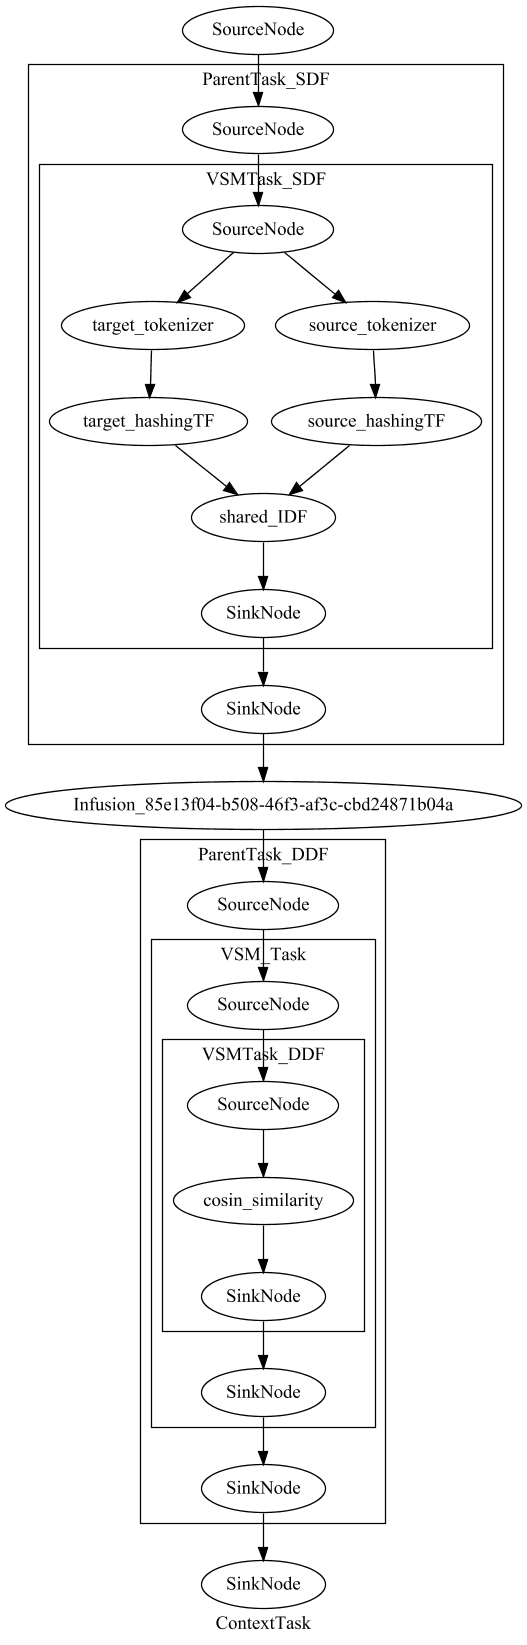
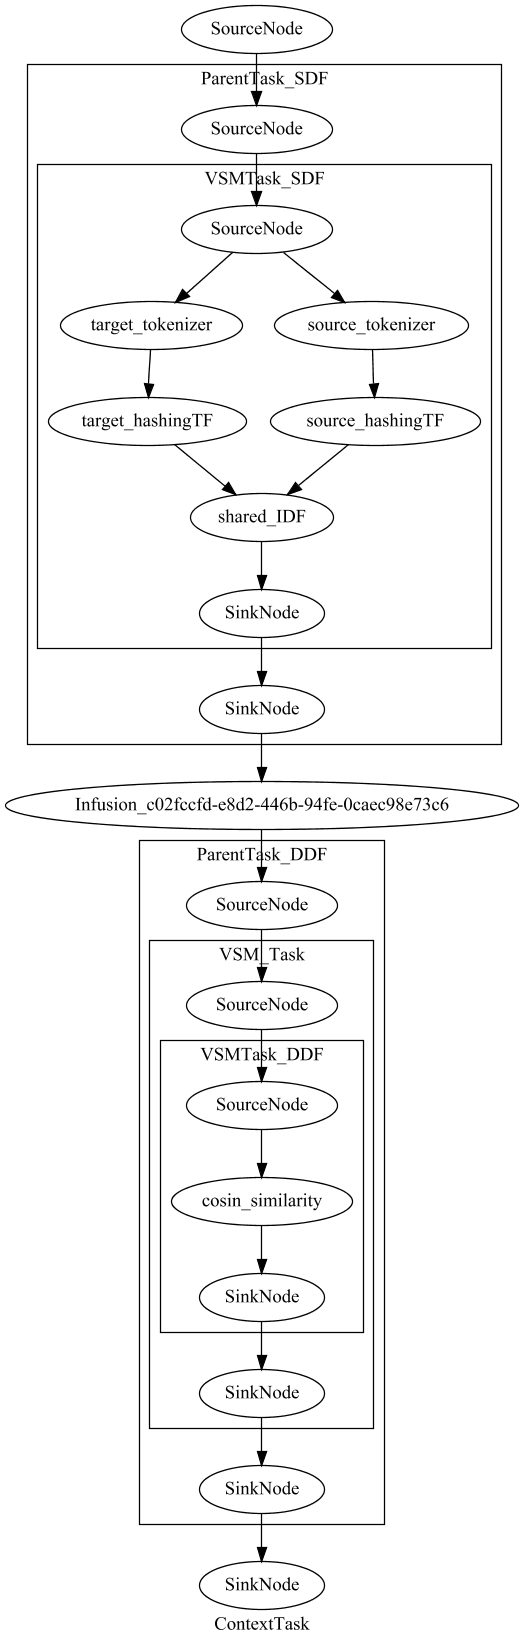
refactory the SDFtype for SDFGraph and removed special node SDFNode

diff --git a/src/main/java/examples/VSMTask.java b/src/main/java/examples/VSMTask.java
@@ -2,7 +2,6 @@ package examples;
 
 import core.SparkTraceTask;
 import core.graphPipeline.SDF.SDFGraph;
-import core.graphPipeline.SDF.SDFNode;
 import core.graphPipeline.basic.SGraph;
 import core.graphPipeline.basic.SNode;
 import featurePipelineStages.VecSimilarity.SparseVecSimilarity.SparseVecCosinSimilarityStage;
@@ -32,29 +31,24 @@ public class VSMTask {
 
     private static void createSourceSDF(SDFGraph sdfGraph) throws Exception {
         sdfGraph.addInputField("s_text").addInputField("s_id");
-        sdfGraph.addOutputField("s_tf_idf");
-        SDFNode.SDFType type = SDFNode.SDFType.SOURCE_SDF;
-
+        sdfGraph.addOutputField("s_tf_idf", SDFGraph.SDFType.SOURCE_SDF);
 
         Tokenizer sTk = new Tokenizer();
-        SDFNode tkNode = new SDFNode(new NullRemoverModelSingleIO(sTk), "source_tokenizer");
+        SNode tkNode = new SNode(new NullRemoverModelSingleIO(sTk), "source_tokenizer");
         tkNode.addInputField("s_text");
         tkNode.addOutputField("s_tokens");
-        tkNode.assignTypeToOutputField("s_tokens", type);
 
         HashingTF htf = new HashingTF();
-        SDFNode htfNode = new SDFNode(new NullRemoverModelSingleIO(htf), "source_hashingTF");
+        SNode htfNode = new SNode(new NullRemoverModelSingleIO(htf), "source_hashingTF");
         htfNode.addInputField("s_tokens");
         htfNode.addOutputField("s_htf");
-        htfNode.assignTypeToOutputField("s_htf", type);
 
 
         IDF idf = new IDF();
         UnsupervisedStage un_idf = new UnsupervisedStage(idf);
-        SDFNode idfNode = new SDFNode(un_idf, "shared_IDF");
+        SNode idfNode = new SNode(un_idf, "shared_IDF");
         idfNode.addInputField("s_idf_in");
         idfNode.addOutputField("s_idf_out");
-        idfNode.assignTypeToOutputField("s_idf_out", type);
 
         sdfGraph.addNode(tkNode);
         sdfGraph.addNode(htfNode);
@@ -69,25 +63,22 @@ public class VSMTask {
     private static void createTargetSDF(SDFGraph sdfGraph) throws Exception {
         sdfGraph.addInputField("t_id");
         sdfGraph.addInputField("t_text");
-        sdfGraph.addOutputField("t_tf_idf");
-        SDFNode.SDFType type = SDFNode.SDFType.TARGET_SDF;
+        sdfGraph.addOutputField("t_tf_idf", SDFGraph.SDFType.TARGET_SDF);
+
         Tokenizer sTk = new Tokenizer();
-        SDFNode tkNode = new SDFNode(new NullRemoverModelSingleIO(sTk), "target_tokenizer");
+        SNode tkNode = new SNode(new NullRemoverModelSingleIO(sTk), "target_tokenizer");
         tkNode.addInputField("t_text");
         tkNode.addOutputField("t_tokens");
-        tkNode.assignTypeToOutputField("t_tokens", type);
 
         HashingTF htf = new HashingTF();
-        SDFNode htfNode = new SDFNode(new NullRemoverModelSingleIO(htf), "target_hashingTF");
+        SNode htfNode = new SNode(new NullRemoverModelSingleIO(htf), "target_hashingTF");
         htfNode.addInputField("t_tokens");
         htfNode.addOutputField("t_htf");
-        htfNode.assignTypeToOutputField("t_htf", type);
 
 
-        SDFNode idfNode = (SDFNode) sdfGraph.getNode("shared_IDF");
+        SNode idfNode = (SNode) sdfGraph.getNode("shared_IDF");
         idfNode.addInputField("t_idf_in");
         idfNode.addOutputField("t_idf_out");
-        idfNode.assignTypeToOutputField("t_idf_out", type);
 
         sdfGraph.addNode(tkNode);
         sdfGraph.addNode(htfNode);

diff --git a/src/main/java/core/graphPipeline/SDF/SDFGraph.java b/src/main/java/core/graphPipeline/SDF/SDFGraph.java
@@ -1,5 +1,6 @@
 package core.graphPipeline.SDF;
 
+import core.graphPipeline.basic.IOTableCell;
 import core.graphPipeline.basic.Vertex;
 import core.graphPipeline.graphSymbol.Symbol;
 import core.graphPipeline.graphSymbol.SymbolTable;
@@ -7,64 +8,28 @@ import core.graphPipeline.basic.SGraph;
 
 import java.util.*;
 
-//TODO SDFGraph and SDFNode is reduludent. It can be simlified to use just SGraph. Internal nodes have no need to keep
-//TODO outputType, only the graph or TraceTask need to keep this information.
+
 public class SDFGraph extends SGraph implements SDFInterface {
-    //SDFGraph outputFields are generated by sourceSDF and targetSDF logically
-    private Map<String, SDFNode.SDFType> outputTypeMap;
+    public enum SDFType {
+        SOURCE_SDF,
+        TARGET_SDF,
+    }
+
+    private Map<String, SDFType> outputTypeMap;
 
     public SDFGraph() {
         super();
         outputTypeMap = new HashMap<>();
     }
 
-
     @Override
     public void removeOutputField(Symbol symbol) {
         super.removeOutputField(symbol);
         outputTypeMap.remove(symbol.getSymbolName());
-
-    }
-
-
-    @Override
-    public void addNode(Vertex vertex) {
-        assert vertex instanceof SDFNode || vertex instanceof SDFGraph;
-        super.addNode(vertex);
     }
 
     @Override
-    public void removeNode(Vertex vertex) throws Exception {
-        assert vertex instanceof SDFNode || vertex instanceof SDFGraph;
-        super.removeNode(vertex);
-    }
-
-    @Override
-    public void connect(Vertex v1, String symbolName1, Vertex v2, String symbolName2) throws Exception {
-        super.connect(v1, symbolName1, v2, symbolName2);
-        if (v2.equals(this.sinkNode)) {
-            if (v1 instanceof SDFInterface) {
-                SDFInterface sdfV1 = (SDFInterface) v1;
-                SDFNode.SDFType sourceSDFType = sdfV1.getOutputSymbolType(symbolName1);
-                outputTypeMap.put(symbolName2, sourceSDFType);
-            }
-        }
-    }
-
-    @Override
-    public void disconnect(Vertex v1, String symbolName1, Vertex v2, String symbolName2) throws Exception {
-        super.disconnect(v1, symbolName1, v2, symbolName2);
-        if (v2.equals(this.sinkNode)) {
-            if (v1 instanceof SDFInterface) {
-                if (outputTypeMap.containsKey(symbolName2)) {
-                    outputTypeMap.remove(symbolName2);
-                }
-            }
-        }
-    }
-
-    @Override
-    public Map<String, SDFNode.SDFType> getOutputTypeMap() {
+    public Map<String, SDFType> getOutputTypeMap() {
         return outputTypeMap;
     }
 
@@ -87,5 +52,17 @@ public class SDFGraph extends SGraph implements SDFInterface {
     public Set<String> getSourceSDFOutput() {
         Set<String> symbolNames = splitSDFOutputs().getKey();
         return getSymbolValuesByName(symbolNames);
+    }
+
+    public Vertex addOutputField(Symbol symbol, SDFType type) throws Exception {
+        super.addOutputField(symbol);
+        assignTypeToOutputField(symbol.getSymbolName(), type);
+        return this;
+    }
+
+    public Vertex addOutputField(String symbolName, SDFType type) throws Exception {
+        Symbol symbol = new Symbol(this, symbolName);
+        addOutputField(symbol, type);
+        return this;
     }
 }

diff --git a/src/test/java/SparkJobTest.java b/src/test/java/SparkJobTest.java
@@ -1,7 +1,7 @@
 import core.SparkTraceTask;
 import core.graphPipeline.SDF.SDFGraph;
-import core.graphPipeline.SDF.SDFNode;
 import core.graphPipeline.basic.SGraph;
+import core.graphPipeline.basic.SNode;
 import examples.TestBase;
 import examples.VSMTask;
 import featurePipelineStages.NullRemoveWrapper.NullRemoverModelSingleIO;
@@ -81,8 +81,8 @@ public class SparkJobTest extends TestBase {
         sdfGraph.setId("nestedTask_SDF");
         sdfGraph.addInputField("s_t");
         sdfGraph.addInputField("t_t");
-        sdfGraph.addOutputField("s_tk");
-        sdfGraph.addOutputField("t_tk");
+        sdfGraph.addOutputField("s_tk", SDFGraph.SDFType.SOURCE_SDF);
+        sdfGraph.addOutputField("t_tk", SDFGraph.SDFType.TARGET_SDF);
 
         Map<String, String> nestTaskConfig = new HashMap<>();
         nestTaskConfig.put("s_t", "commit_content");
@@ -91,16 +91,14 @@ public class SparkJobTest extends TestBase {
         nestTaskConfig.put("t_id", "issue_id");
 
         Tokenizer sTk = new Tokenizer();
-        SDFNode stkNode = new SDFNode(new NullRemoverModelSingleIO(sTk), "source_tokenizer");
+        SNode stkNode = new SNode(new NullRemoverModelSingleIO(sTk), "source_tokenizer");
         stkNode.addInputField("s_text");
         stkNode.addOutputField("s_tokens");
-        stkNode.assignTypeToOutputField("s_tokens", SDFNode.SDFType.SOURCE_SDF);
 
         Tokenizer tTk = new Tokenizer();
-        SDFNode ttkNode = new SDFNode(new NullRemoverModelSingleIO(tTk), "target_tokenizer");
+        SNode ttkNode = new SNode(new NullRemoverModelSingleIO(tTk), "target_tokenizer");
         ttkNode.addInputField("t_text");
         ttkNode.addOutputField("t_tokens");
-        ttkNode.assignTypeToOutputField("t_tokens", SDFNode.SDFType.TARGET_SDF);
 
         sdfGraph.addNode(stkNode);
         sdfGraph.addNode(ttkNode);
@@ -142,9 +140,11 @@ public class SparkJobTest extends TestBase {
         SDFGraph sdf = new SDFGraph();
         sdf.setId("ParentTask_SDF");
         sdf.addInputField("s_id").addInputField("t_id").addInputField("s_text").addInputField("t_text");
-        sdf.addOutputField("s_text_out").addOutputField("t_text_out").addOutputField("s_id_out").addOutputField("t_id_out");
-        sdf.assignTypeToOutputField("s_text_out", SDFNode.SDFType.SOURCE_SDF);
-        sdf.assignTypeToOutputField("t_text_out", SDFNode.SDFType.TARGET_SDF);
+        sdf.addOutputField("s_text_out", SDFGraph.SDFType.SOURCE_SDF);
+        sdf.addOutputField("t_text_out", SDFGraph.SDFType.TARGET_SDF);
+        sdf.addOutputField("s_id_out", SDFGraph.SDFType.SOURCE_SDF);
+        sdf.addOutputField("t_id_out", SDFGraph.SDFType.TARGET_SDF);
+
         sdf.connect(sdf.sourceNode, "s_text", sdf.sinkNode, "s_text_out");
         sdf.connect(sdf.sourceNode, "t_text", sdf.sinkNode, "t_text_out");
         sdf.connect(sdf.sourceNode, "t_id", sdf.sinkNode, "t_id_out");

diff --git a/src/test/java/OptimizationTest.java b/src/test/java/OptimizationTest.java
@@ -1,10 +1,6 @@
-import core.SparkTraceTask;
-import core.graphPipeline.SDF.SDFGraph;
-import core.graphPipeline.SDF.SDFNode;
 import core.graphPipeline.basic.SGraph;
 import core.graphPipeline.basic.SNode;
 import examples.TestBase;
-import examples.VSMTask;
 import org.apache.spark.ml.feature.HashingTF;
 import org.apache.spark.ml.feature.IDF;
 import org.apache.spark.ml.feature.Tokenizer;
@@ -171,7 +167,7 @@ public class OptimizationTest extends TestBase {
         hashTFNode1.addOutputField("TF");
 
         IDF idf1 = new IDF();
-        SNode idfNode = new SDFNode(idf1, "idf1");
+        SNode idfNode = new SNode(idf1, "idf1");
         idfNode.addInputField("s_idf_in");
         idfNode.addOutputField("s_idf_out");
 
@@ -235,7 +231,7 @@ public class OptimizationTest extends TestBase {
         VSMGraph.addOutputField("TF-IDF");
         SGraph htfSubGraph = createHTFSubGraph("HTFSubGraph");
         IDF idf = new IDF();
-        SNode idfNode = new SDFNode(idf, "idf1");
+        SNode idfNode = new SNode(idf, "idf1");
         idfNode.addInputField("s_idf_in");
         idfNode.addOutputField("s_idf_out");
 
@@ -280,7 +276,7 @@ public class OptimizationTest extends TestBase {
         VSMGraph1.addOutputField("TF-IDF");
         SGraph htfSubGraph = createHTFSubGraph("HTFSubGraph");
         IDF idf = new IDF();
-        SNode idfNode = new SDFNode(idf, "idf1");
+        SNode idfNode = new SNode(idf, "idf1");
         idfNode.addInputField("s_idf_in");
         idfNode.addOutputField("s_idf_out");
 
@@ -308,7 +304,7 @@ public class OptimizationTest extends TestBase {
         hashTFNode2.addOutputField("TF");
 
         IDF idf2 = new IDF();
-        SNode idfNode2 = new SDFNode(idf2, "idf2");
+        SNode idfNode2 = new SNode(idf2, "idf2");
         idfNode2.addInputField("s_idf_in");
         idfNode2.addOutputField("s_idf_out");
 

diff --git a/src/main/java/core/SparkTraceTask.java b/src/main/java/core/SparkTraceTask.java
@@ -92,11 +92,13 @@ public class SparkTraceTask extends SGraph {
         for (IOTableCell outputCell : childSDF.getOutputTable().getCells()) {
             List<IOTableCell> targetCells = outputCell.getOutputTarget();
             for (IOTableCell targetCell : new ArrayList<>(targetCells)) {
-                String parentSDFNewOutputFieldName = targetCell.getFieldSymbol().getSymbolName() + "_" + UUID.randomUUID();
-                String parentDDFNewInputFieldName = targetCell.getFieldSymbol().getSymbolName() + "_" + UUID.randomUUID();
-                parentSDF.addOutputField(parentSDFNewOutputFieldName);
+                String targetSymbolName = targetCell.getFieldSymbol().getSymbolName();
+                String parentSDFNewOutputFieldName = targetSymbolName + "_" + UUID.randomUUID();
+                String parentDDFNewInputFieldName = targetSymbolName + "_" + UUID.randomUUID();
+                SDFGraph.SDFType type = childSDF.getOutputSymbolType(outputCell.getFieldSymbol().getSymbolName());
+                parentSDF.addOutputField(parentSDFNewOutputFieldName, type);
                 parentDDF.addInputField(parentDDFNewInputFieldName);
-                parentSDF.connect(childSDF, targetCell.getFieldSymbol().getSymbolName(), parentSDF.sinkNode, parentSDFNewOutputFieldName); //connect childSDF to parentSDF
+                parentSDF.connect(childSDF, outputCell.getFieldSymbol().getSymbolName(), parentSDF.sinkNode, parentSDFNewOutputFieldName); //connect childSDF to parentSDF
                 connect(parentSDF, parentSDFNewOutputFieldName, parentDDF, parentDDFNewInputFieldName);//connect new added field from parentSDF to parentDDF
                 int pathIndex = path.size() - 1;
                 if (path.size() > 2) {

diff --git a/src/main/java/core/graphPipeline/SDF/SDFInterface.java b/src/main/java/core/graphPipeline/SDF/SDFInterface.java
@@ -1,6 +1,6 @@
 package core.graphPipeline.SDF;
 
-import core.graphPipeline.graphSymbol.Symbol;
+
 import javafx.util.Pair;
 
 import java.util.HashSet;
@@ -8,13 +8,13 @@ import java.util.Map;
 import java.util.Set;
 
 public interface SDFInterface {
-    default SDFNode.SDFType getOutputSymbolType(String symbolName) {
+    default SDFGraph.SDFType getOutputSymbolType(String symbolName) {
         return getOutputTypeMap().get(symbolName);
     }
 
-    Map<String, SDFNode.SDFType> getOutputTypeMap();
+    Map<String, SDFGraph.SDFType> getOutputTypeMap();
 
-    default void assignTypeToOutputField(String symbolName, SDFNode.SDFType type) {
+    default void assignTypeToOutputField(String symbolName, SDFGraph.SDFType type) {
         getOutputTypeMap().put(symbolName, type);
     }
 
@@ -24,12 +24,12 @@ public interface SDFInterface {
      * @return
      */
     default Pair<Set<String>, Set<String>> splitSDFOutputs() {
-        Map<String, SDFNode.SDFType> outputTypes = getOutputTypeMap();
+        Map<String, SDFGraph.SDFType> outputTypes = getOutputTypeMap();
         Set<String> sourceSymbol = new HashSet<>();
         Set<String> targetSymbol = new HashSet<>();
         for (String outputField : outputTypes.keySet()) {
-            SDFNode.SDFType type = outputTypes.get(outputField);
-            if (type.equals(SDFNode.SDFType.SOURCE_SDF)) {
+            SDFGraph.SDFType type = outputTypes.get(outputField);
+            if (type.equals(SDFGraph.SDFType.SOURCE_SDF)) {
                 sourceSymbol.add(outputField);
             } else {
                 targetSymbol.add(outputField);

diff --git a/src/main/java/core/graphPipeline/basic/Vertex.java b/src/main/java/core/graphPipeline/basic/Vertex.java
@@ -75,11 +75,15 @@ abstract public class Vertex {
         assert symbol.getScope().equals(this);
     }
 
-    public Vertex addInputField(Symbol symbol) throws Exception {
+    protected void addSymbol(Symbol symbol, IOTable table) throws Exception {
         checkSymbolValid(symbol);
         IOTableCell cell = new IOTableCell(symbol);
-        inputTable.addCell(cell);
+        table.addCell(cell);
         SymbolTable.registerSymbol(symbol);
+    }
+
+    public Vertex addInputField(Symbol symbol) throws Exception {
+        addSymbol(symbol, inputTable);
         return this;
     }
 
@@ -120,10 +124,7 @@ abstract public class Vertex {
     }
 
     public Vertex addOutputField(Symbol symbol) throws Exception {
-        checkSymbolValid(symbol);
-        IOTableCell cell = new IOTableCell(symbol);
-        outputTable.addCell(cell);
-        SymbolTable.registerSymbol(symbol);
+        addSymbol(symbol, outputTable);
         return this;
     }
 

diff --git a/README.md b/README.md
@@ -2,12 +2,18 @@ SparkTrace
 ===
 A framework which can create a traceability models on Spark.
 
+Create a graph
+===
+To create a graph programmer need to do following steps:
+1. Create an empty graph as background
+2. Define the IO fields for the graph. If the graph is SDFGraph, then assign the type of output to output fields
+3. Create SNodes.If the nodes are added into SDFGraph, then the pipeline stages should be wrapped in NullRemoverStage 
+4. Add nodes to the graph
+5. 
 
 ###TODO
 
 TODO: 
-1. Create TFIDF pipeline
-2. Create ngram tf-idf pipeline
 3. Modify the SDFGraph which only need to receive sdftype at SDFGraph level and can convert a graph into SDFGraph
 
 Experiments:
